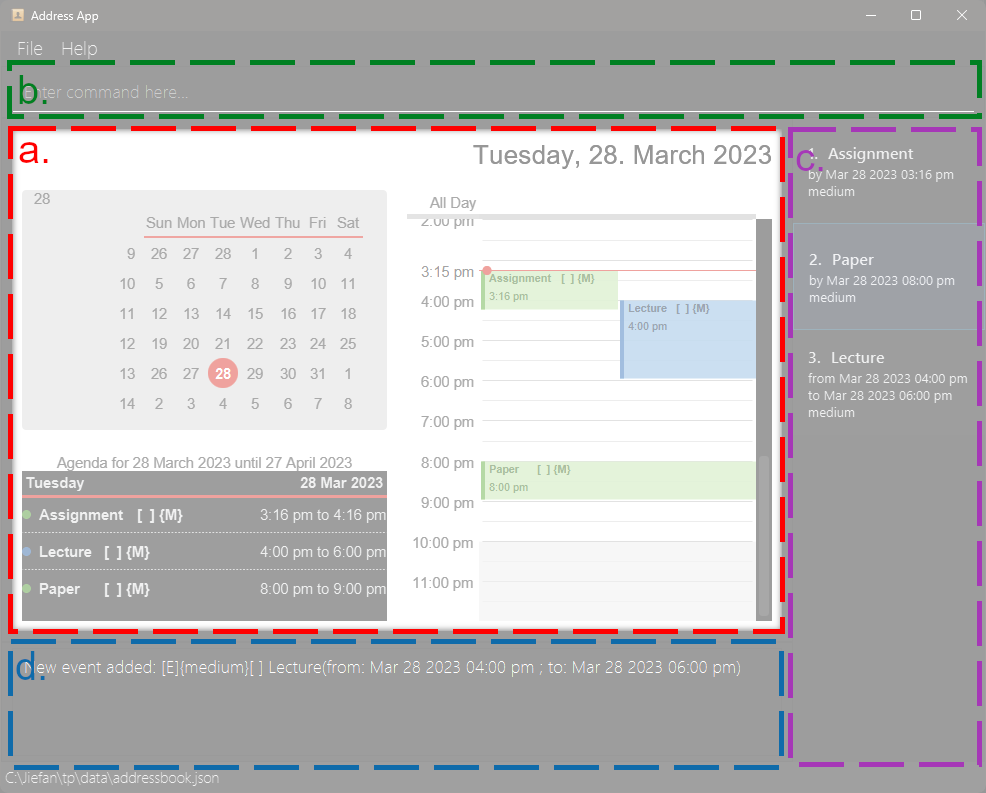
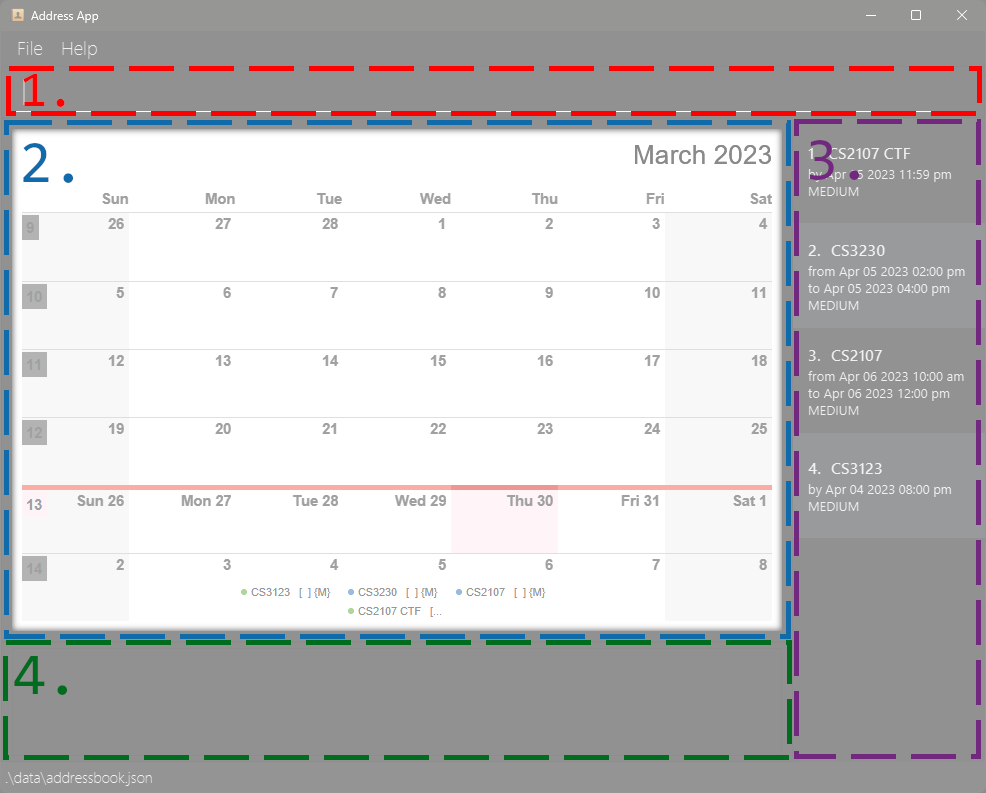
UG updates: - More screenshots - Fixed intro

diff --git a/docs/UserGuide.md b/docs/UserGuide.md
@@ -3,17 +3,17 @@ layout: page
 title: User Guide
 ---
 
-Calidr is a **time-management and scheduling calendar application** for university students, optimized for use via a
-Command Line Interface (CLI) while still having the benefits of a Graphical User Interface (GUI). Calidr helps you
-manage your time and tasks more effectively.
+# Calidr: User Guide
 
-## How To Use This Guide
+Welcome!
 
-Welcome to the user guide for Calidr! This guide provides detailed instructions on how to use the features and functionality of our product. Whether you're a new user getting started with the basics or an experienced user looking for advanced tips and tricks, this guide has everything you need to know.
+Calidr is a **time-management and scheduling calendar application** for university students, optimized for use via a Command Line Interface (CLI) while still having the benefits of a Graphical User Interface (GUI). Calidr helps you manage and store your classes, assignments, deadlines, and tasks from one place.
+          
+This guide provides detailed instructions on how to use the features of Calidr. Whether you're a new user [getting started](#quick-start) with the basics or an experienced user looking for [advanced tips and tricks](#paperclip-features), this guide has everything you need to know.
 
-To get started, read through the Quick Start section to set up the application. Refer to the Definitions section to familiarize yourself with the terminology used in this guide.
+We recommend that you refer to the [Definitions](#mag-definitions) to familiarize yourself with the terminology used in this guide.
 
-If you have any questions or run into problems, check out the FAQ for solutions to commonly faced issues.
+If you have any questions or run into problems, check out the [FAQ](#faq) for solutions to commonly faced issues.
 
 * Table of Contents
 {:toc}
@@ -24,19 +24,19 @@ If you have any questions or run into problems, check out the FAQ for solutions 
 
 1. Ensure you have Java `11` or above installed in your Computer.
 
-1. Download the latest `calidr.jar`, available [here](https://github.com/AY2223S2-CS2103T-W10-2/tp/releases).
+2. Download the latest `calidr.jar`, available [here](https://github.com/AY2223S2-CS2103T-W10-2/tp/releases).
 
-1. Copy the file to the folder you want to use as the _home directory_ for your Calidr.
+3. Copy the file to the folder you want to use as the _home directory_ for your Calidr.
 
-1. Double click the `calidr.jar` file.<br>
-   A GUI similar to the below should appear in a few seconds.<br>
+4. Double-click the `calidr.jar` file.
+   A window similar to the one shown below will appear.
    ![Ui](images/Ui.png)
 
-1. Type the command in the command box at the top and press `Enter` to execute it.
+5. Type the command in the command box at the top and press `Enter` to execute it.
 
    E.g. typing **`help`** and pressing Enter will open the help window.<br>
 
-1. Refer to the [Features](#paperclip-features) below for details of each command.
+6. Refer to the [Features](#paperclip-features) below for details of each command.
 
 --------------------------------------------------------------------------------------------------------------------
 
@@ -45,94 +45,99 @@ If you have any questions or run into problems, check out the FAQ for solutions 
 ### Command definitions
 
 <div markdown="block" class="alert alert-info">
-🕮 This user guide uses a modifided version of the <a href="http://docopt.org/">docopt</a> command description language.
-</div>
+🕮 From now on we'll be using a slightly modifided version of the <a href="http://docopt.org/">docopt</a> command description language.
+<details>
 
 1. We will use the word "**string**" to describe any general sequence of characters.
-1. We will use the word "**word**" to describe a sequence of characters terminated by a whitespace.
-1. Words ending with a backslash `/` are interpreted as _compulsory_, _position-independent_ **options**.
+2. We will use the word "**word**" to describe a sequence of characters terminated by a whitespace.
+3. Words ending with a backslash `/` are interpreted as _compulsory_, _position-independent_ **options**.
 
    `t/`,`by/`,`from/`,`to/`
-1. Uppercase words denote the position of **arguments**.
-1. All other words that do not follow the above conventions are interpreted as **commands** and **subcommands**.
+4. Uppercase words denote the position of **arguments**.
+5. All other words that do not follow the above conventions are interpreted as **commands** and **subcommands**.
 
    `help`
-3. Options can have arguments specified after a whitespace. Together they are refered to as a **field**.
+6. Options can have arguments specified after a whitespace. Together they are refered to as a **field**.
 
    `todo t/ <title> by/ <date-time>`
-1. An option's arguments, when bracketed by "<" and ">", can be **whitespace-containing** strings. They are terminated
+7. An option's arguments, when bracketed by "<" and ">", can be **whitespace-containing** strings. They are terminated
    by a newline or a different option, matching *leftmost-first*
 
    `event t/ <title> from/ <start-date-time> to/ <end-date-time>`
-1. Else, if the arguments are in uppercase, they must be **strictly words** terminated by whitespace
+8. Else, if the arguments are in uppercase, they must be **strictly words** terminated by whitespace
 
    `delete TASK_INDEX`
-1. Some commands may accept a single *positional* argument string, known as a **main argument**, beginning after a
+9. Some commands may accept a single *positional* argument string, known as a **main argument**, beginning after a
    whitespace following the command itself and terminating at a newline or the first option, matching *leftmost-first*.
 
    `edit TASK_INDEX t/ <title>`
-1. Options (and arguments) bracketed with "\[" and  "\]" are **optional**.
+10. Options (and arguments) bracketed with "\[" and  "\]" are **optional**.
 
-   `[d/ <description>] [p/ <priority>]`
-1. Ellipsis "..." specify that the argument (or field) to the left could be **repeated** multiple times:
+    `[d/ <description>] [p/ <priority>]`
+11. Ellipsis "..." specify that the argument (or field) to the left could be **repeated** multiple times:
 
-   `[tag/ <tag>]...`
-1. *All elements are required by default*, if not included in brackets "\[ \]". However, sometimes it is necessary to
-   mark elements as **required** explicitly with parentheses "( )". For example, when you need to group
-   mutually-inclusive elements (if *one* element is present, then *another* one is required):
+    `[tag/ <tag>]...`
+12. *All elements are required by default*, if not included in brackets "\[ \]". However, sometimes it is necessary to
+    mark elements as **required** explicitly with parentheses "( )". For example, when you need to group
+    mutually-inclusive elements (if *one* element is present, then *another* one is required):
 
-   `edit TASK_INDEX (OPTION <argument>)...`
+    `edit TASK_INDEX (OPTION <argument>)...`
+</details>
+</div>
 
 ### Data terminology
 
-1. Elements on a calendar are refered to as **Tasks**.
-1. Tasks must have a **title**.
-1. A task can have an optional **description**, **location**, and multiple **tags(s)**.
-1. Tasks have an associated **priority**.
+1. Elements on a calendar are referred to as **Tasks**.
+2. Tasks must have a **title**.
+3. A task can have an optional **description**, **location**, and multiple **tags(s)**.
+4. Tasks have an associated **priority**.
     1. Priority is one of `HIGH`, `MEDIUM` or `LOW`.
     3. Tasks have a default priority of `MEDIUM`.
-1. Tasks must either be **ToDos** or **Events**.
+5. Tasks must either be **ToDos** or **Events**.
     1. ToDos have a single associated **date-time** (e.g. a due date).
         1. ToDos also have an associated **status**.
             1. Status is one of `DONE` or `NOT DONE`.
             1. ToDos have a default status of `NOT DONE`.
-    1. Events have *two* associated date-times (e.g a start and end-date).
-1. Dates are specified in the format `DD-MM-YYYY`. Date-times are specified in the format `DD-MM-YYYY HHMM`. Calidr also
+    2. Events have *two* associated date-times (e.g a start and end-date).
+6. Dates are specified in the format `DD-MM-YYYY`. Date-times are specified in the format `DD-MM-YYYY HHMM`. Calidr also
    accepts and automatically parser the following keywords as date-times:
 
    `today`, `tomorrow`, `next week`, `next month`, `next year`
-1. Tasks are uniquely identified by their **task index**. This is given in the list panel, and is also used to refer to
+7. Tasks are uniquely identified by their **task index**. This is given in the list panel, and is also used to refer to
    tasks in commands.
 
 ### UI terminology
 
 ![Ui](images/Ui_annotated.png)
 
-a. **Calendar panel**: The calendar panel is where you can view your tasks graphically. Tasks are displayed as coloured
+1. **Command box**
+   
+   The command box is where you can type in commands to Calidr. Pressing `Enter` will execute the
+   command.
+
+1. **Calendar panel**
+   
+   The calendar panel is where you can view your tasks graphically. Tasks are displayed as coloured
 blocks, with green being **ToDos** and blue being **Events**. The calendar panel also displays the _focused_ date and
 time, which [may not be the current time](#viewing-a-different-date-view).
 
-b. **Command box**: The command box is where you can type in commands to Calidr. Pressing `Enter` will execute the
-command.
-
-c. **List panel**: The list panel is where Calidr will display the list of tasks that match your command. This usually
+1. **List panel**
+   
+   The list panel is where Calidr will display the list of tasks that match your command. This usually
 just shows all the tasks in the calendar, but can
 be [filtered by title, date, or other criteria](#searching-and-filtering-for-tasks-search).
 
-d. **Result panel**: The result panel is where Calidr will display the result of your command, including any errors.
+1. **Result panel**
+   
+   The result panel is where Calidr will display the result of your command, including any errors.
 
 ## :paperclip: Features
 
 #### View help: `help`
 
-Shows a message explaning how to access the help page.
-The help page provides information about how to use the application and its features.
+Shows a message explaining how to access this help page.
 
 #### Adding tasks
-
-Please refer to the terminology [specified above](#data-terminology) if you are unfamiliar with the terms used.
-
-<!-- end of the list -->
 
 - #### Adding a ToDo: `todo`
   Adds a new ToDo with the given title, date-time, description, location and tags to the list of tasks.
@@ -140,8 +145,20 @@ Please refer to the terminology [specified above](#data-terminology) if you are 
   Format: `todo t/ <title> by/ <date-time> [d/ <description>] [l/ <location>] [p/ <priority>] [tag/ <tag>]...`
 
   Examples:
-    - `todo t/ CS2103T tP by/ 31-03-2023 2359`
+    - `todo t/ CS2103T iP by/ 31-03-2023 1700`
+
+      Adds a new ToDo with the title `CS2103T iP` due on the 31st of March 2023 at 5pm.
     - `todo t/ CS2103T tP by/ today d/ Complete the tP l/ Online p/ HIGH tag/ CS2103T tag/ tP`
+  
+      Adds a new ToDo with the title `CS2103T tP`, due today, with description `Complete the tP`, location `Online`, a high priority, and tags `CS2103T` and `tP`.
+  
+  You should see the following in the calendar and results panel respectively:
+
+  | Calendar panel                  | Results Panel                |
+  |---------------------------------|------------------------------|
+  | ![Todo](images/Ui_todo_cal.png) | ![](images/Ui_todo_list.png) |
+    
+  
 
 - #### Adding an Event: `event`
   Adds a new event with the given title, starting date-time, ending date-time, description, location and tags to the
@@ -151,16 +168,26 @@ Please refer to the terminology [specified above](#data-terminology) if you are 
 
   Examples:
     - `event t/ CS2103T Lecture from/ 31-03-2023 1400 to/ 31-03-2023 1600`
-    - `event t/ CS2103T Lecture from/ today to/ 31-03-2023 1600 d/ Lecture on UML l/ Online p/ HIGH tag/ CS2103T tag/ Lecture`
+
+      Adds a new event with the title `CS2103T Lecture` starting on the 31st of March 2023 at 2pm and ending at 4pm.
+    - `event t/ CS2103T Tutorial from/ today to/ 31-03-2023 1600 d/ Lecture on UML l/ Online p/ HIGH tag/ CS2103T tag/ Tutorial`
+
+      Adds a new event with the title `CS2103T Tutorial`, starting today and ending on the 31st of March 2023 at 4pm, with description `Lecture on UML`, location `Online`, a high priority, and tags `CS2103T` and `Tutorial`.
+
+  You should see the following in the calendar and results panel respectively:
+
+  | Calendar panel                  | Results Panel                |
+  |---------------------------------|------------------------------|
+  | ![Todo](images/Ui_event_cal.png) | ![](images/Ui_event_list.png) |
 
 #### Editing tasks: `edit`
 
 Edits information about a particular task specified by its index. Edits the title, date-times (*by, from, to*), description, location and tags of the referenced task.
 
+<div markdown="block" class="alert alert-info">
+🕮 When modifying an event, fields unique to todo will be parsed as strings, and vice versa.
+</div>
 
-A few points to take note of:
-- When modifying an event, fields unique to todo will be parsed as strings, and vice versa.
-- Coming soon: incompatible fields will not be parsed, and therefore, will be ignored.
 
 Format: `edit TASK_INDEX [t/ <title>] [by/ <date-time>] [from/ <date-time>] [to/ <date-time>] [d/ <description>] [l/ <location>] [p/ <priority>] [tag/ <tag>]...`
 
@@ -188,10 +215,14 @@ Examples:
 
 Searches for tasks with matching keywords in their fields. Filtered tasks are displayed in a list to the side.
 
-A few points to take note of:
-- Keyword matching is case-insensitive
-- All tasks whose titles have any of the given keywords will be displayed in the list.
-- The entire keyword must be contained in the title of the task for the task to be displayed.
+<div markdown="block" class="alert alert-info">
+🕮 
+<ul>
+<li>Keyword matching is case-insensitive</li>
+    <li>All tasks whose titles have any of the given keywords will be displayed in the list.</li>
+    <li>The entire keyword must be contained in the title of the task for the task to be displayed.</li>
+</ul>    
+</div>
 
 Format: `search KEYWORD [MORE KEYWORDS]...`
 
@@ -225,9 +256,9 @@ view more or less tasks.
 
 Format: `page LAYOUT`, where `LAYOUT` is one of `month`, `week`, or `day`.
 
-Example: `page week`
-
 ![A comparison of the three layouts](images/Ui_pages.png)
+
+Example: `page week`
 
 #### Viewing a different date: `view`
 
@@ -288,7 +319,7 @@ users are welcome to manipulate data directly by editing the save file.
 
 ## FAQ
 
-**Q**: How do I transfer my data to another Computer?<br>
+**Q**: How do I transfer my data to another computer?<br>
 **A**: Install the app in the other computer and overwrite the empty data file it creates with the file that contains
 the data of your previous Calidr home directory.
 

diff --git a/docs/index.md b/docs/index.md
@@ -11,8 +11,7 @@ title: Calidr
 Calidr is a **time-management and scheduling calendar application** that offers integrated support for university
 students to manage their classes, assignments, deadlines, and tasks from one place.
 
-* If you are interested in using Calidr, head over to the [_Quick Start_ section of the **User Guide
-  **](UserGuide.html#quick-start).
+* If you are interested in using Calidr, head over to the [_Quick Start_ section of the **User Guide**](UserGuide.html#quick-start).
 * If you are interested about developing Calidr, the [**Developer Guide**](DeveloperGuide.html) is a good place to
   start.
 
@@ -27,8 +26,7 @@ This project is based on the AddressBook-Level3 project created by the [SE-EDU i
 
 **Acknowledgements**
 
-* Libraries used:
-  *
-  AB3: [JavaFX](https://openjfx.io/), [Jackson](https://github.com/FasterXML/jackson), [JUnit5](https://github.com/junit-team/junit5)
-  *
-  Calidr: [CalendarFX](https://github.com/dlsc-software-consulting-gmbh/CalendarFX), [ical4j](https://github.com/ical4j/ical4j)
+Libraries used:
+
+* AB3: [JavaFX](https://openjfx.io/), [Jackson](https://github.com/FasterXML/jackson), [JUnit5](https://github.com/junit-team/junit5)
+* Calidr: [CalendarFX](https://github.com/dlsc-software-consulting-gmbh/CalendarFX), [ical4j](https://github.com/ical4j/ical4j)
